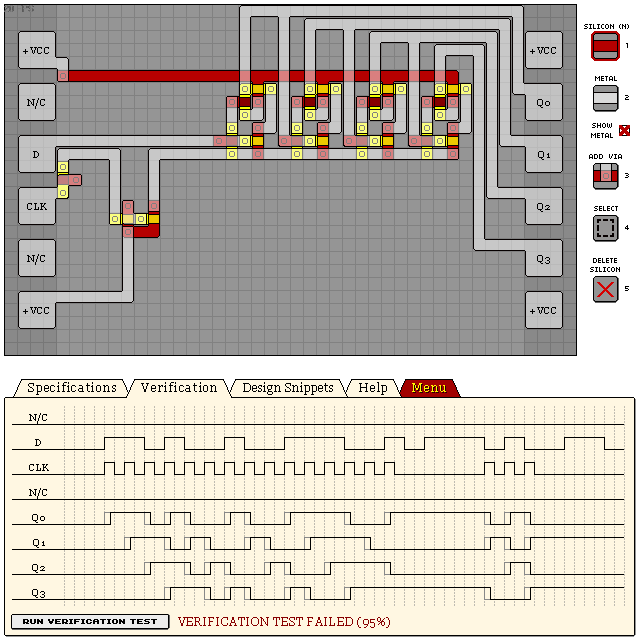
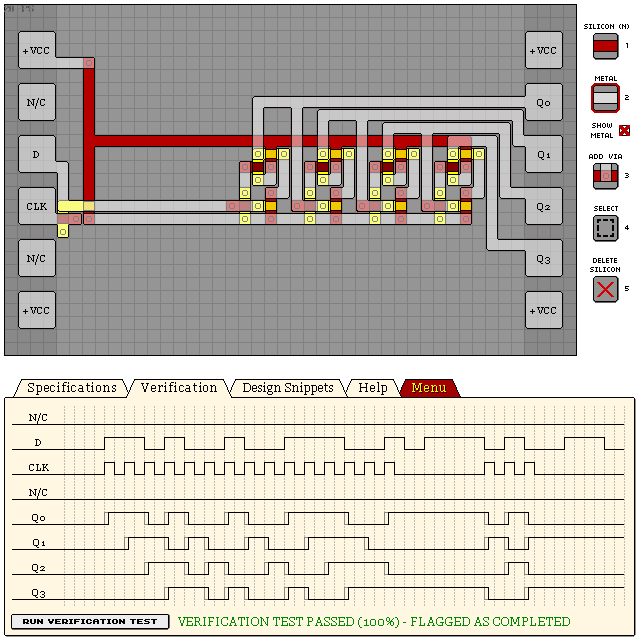
KC74S 100%

diff --git a/levels/14 KC74S 4-BIT SHIFT REGISTER S-TO-P.md b/levels/14 KC74S 4-BIT SHIFT REGISTER S-TO-P.md
@@ -1,22 +1,19 @@
 # KC74S - 4-BIT SHIFT REGISTER (S-TO-P)
 
-So very close...
-
-- Verification: Failed (95%)
-- Design Score: 372
+- Verification: Passed (100%)
+- Design Score: 312
 
 ```
[20 lines of base64/hex data omitted]
+M1VSo0qaqQoXMdCsx/n/KpJ3/ABKzMkh
 
 ```
 
